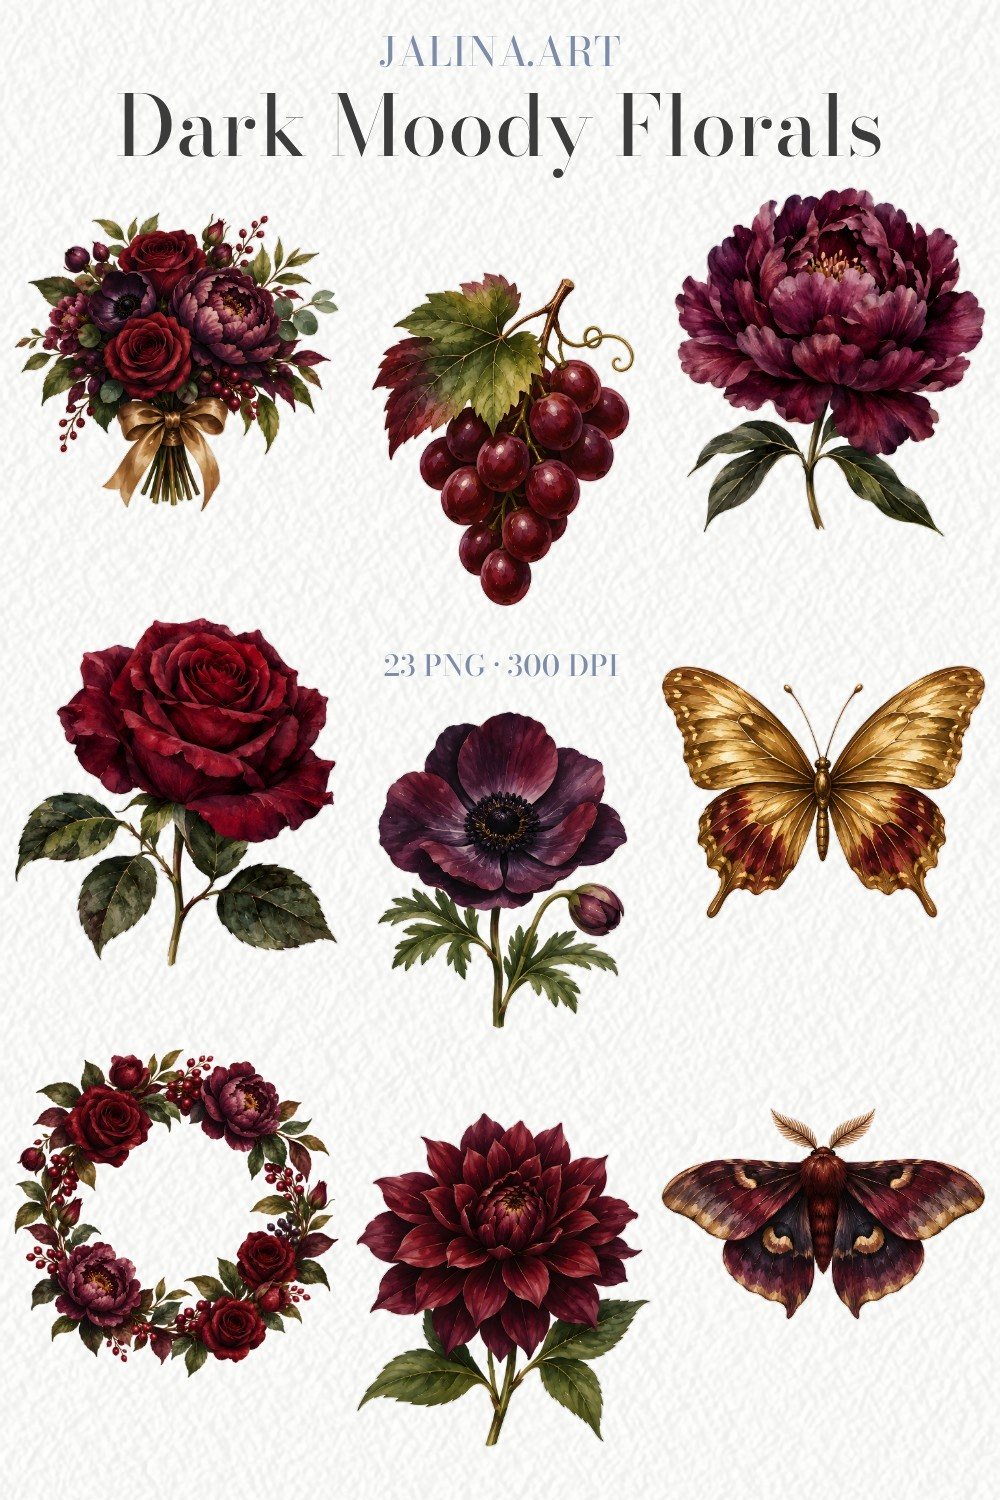
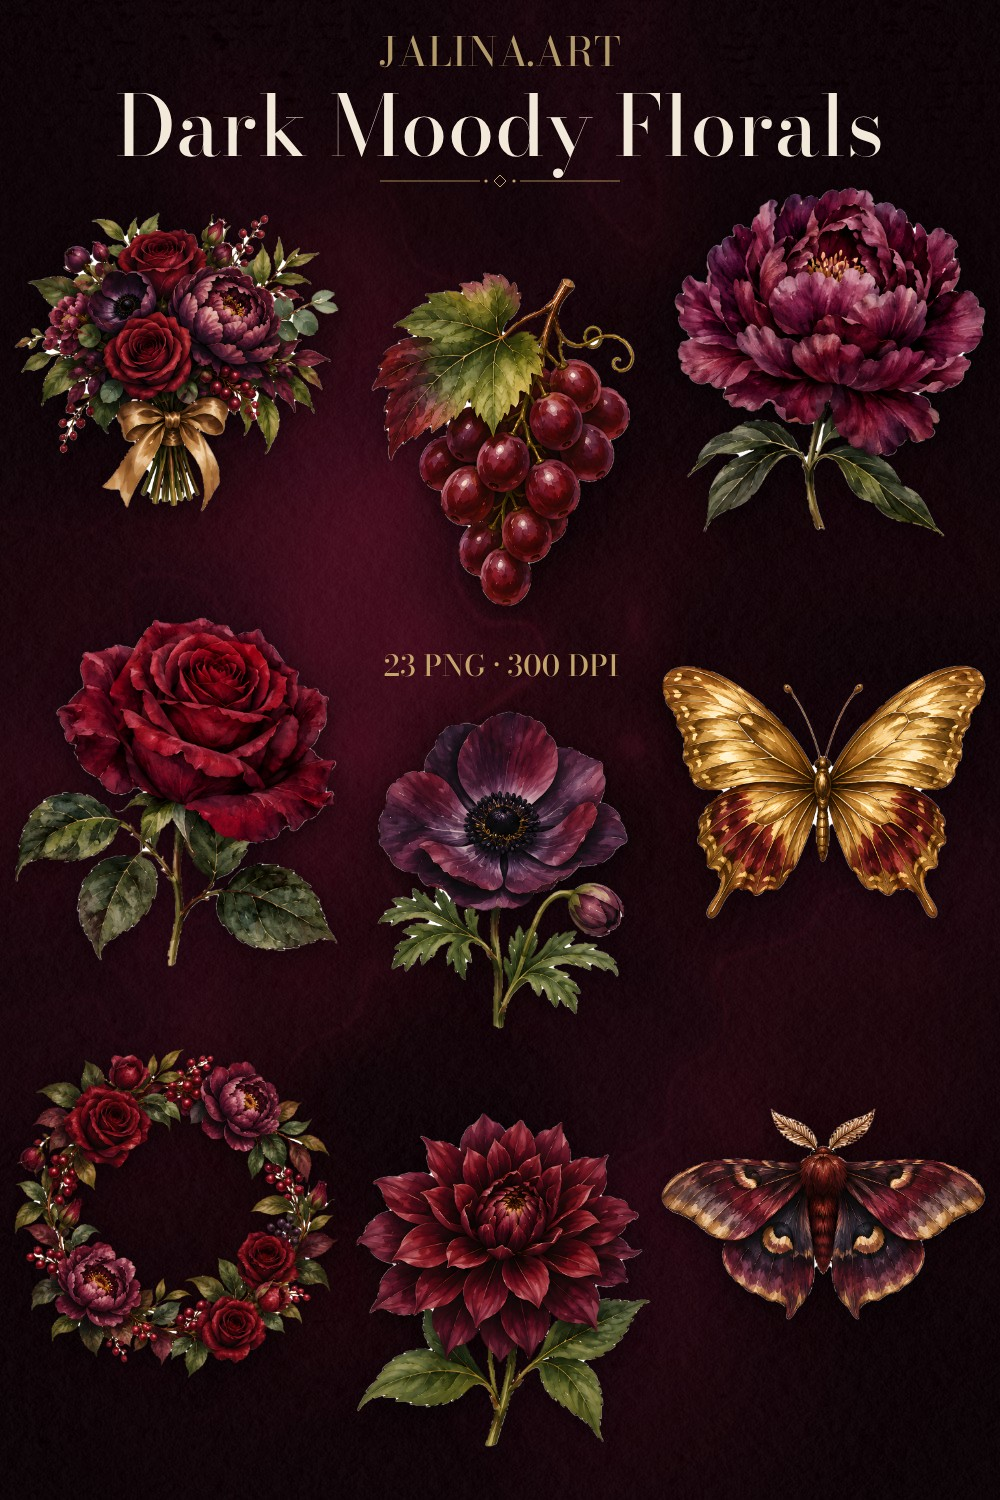
Pin template R: light/dark themes (auto by set palette), R is the default
Dark sets (median element luminance < 0.4) get the wine-to-black watercolor
wash, ivory title, muted gold caps, gold rule with diamond, defringed elements
with soft shadow. Light theme unchanged. Samples: moody florals (dark), pastel
christmas and elegant wedding (light).

Claude-Session: https://claude.ai/code/session_011DEezwDVCdCrHxyaviwVHj

diff --git a/affiliate/pins/v2/README.md b/affiliate/pins/v2/README.md
@@ -30,6 +30,10 @@ handmade paper with faint fibres. Elements use `multiply` so the paper
 shows through like print. Header: studio line `JALINA.ART` (Manrope spaced caps, muted), set name big in DM Serif
 Display, `<count> PNG · 300 DPI` (count from shop.json). No bottom brand: the studio line carries jalina.art.
 
+**R is THE default pin template for our own sets (Alina, 12.11.2026).** `--theme auto` (the default) picks by the set's own paint: if the median luminance of opaque element pixels is < 0.4 (moody burgundy florals 0.21; pastel, wedding and dino sets are 0.67–0.85), the theme is **dark**, otherwise **light**.
+- **Light:** cotton paper, slate caps lines, dark-grey title.
+- **Dark:** a wine-to-black watercolor wash (`assets/wine-wash.jpg`, made by `dark_wash.py` with grain from the CC0 paper scan), ivory title, muted gold caps, a thin gold rule with a small diamond under the title, defringed elements (no light halo; cached as `<set>/1000d/`) and a soft drop shadow.
+
 **R** replica (Nov 12 2026): a one-to-one copy of Alina's favourite reference pin "Coffee" (Crystal Sea Studio), with the content swapped for our set.
 - **Measured layout:** studio caps y≈40–67, title cap y≈97–156, a 3×3 grid of 9 items. The middle column sits ~75 px lower in every row, and the centre of row 2 has a small caps line (`<count> PNG · 300 DPI`) with an item under it. Items fill ~325×350 by their own shape; outer items sit 14–40 px from the edges.
 - **Fonts:** Bodoni Moda (OFL, `assets/fonts/`) in slate #7D8CAB for the studio line `JALINA.ART` and the middle line, #3C3C3C for the set name in Title Case.
@@ -48,7 +52,9 @@ python3 gen.py D 21-dino-birthday 2          # mockup-2 as hero -> v2-D-21-dino-
                                              # --title "Make your own dino party toppers" --strip 0|3|4 --kicker "..."
 python3 gen.py S 05-pastel-christmas --size 1000x2000   # -> v2-S-05-pastel-christmas-tall.html (--n 6..12, --title)
 python3 paper_real.py <Paper001 Color.jpg> <Paper006 Color.jpg>   # rebuild assets/paper-1..3.jpg (see assets/LICENSES.md)
-python3 gen.py R 14-moody-florals            # -> v2-R-14-moody-florals.html (--title to override)
+python3 gen.py R 14-moody-florals            # DEFAULT for own sets -> v2-R-14-moody-florals.html (auto -> dark)
+python3 gen.py R 05-pastel-christmas --theme light   # force a theme (light|dark|auto); --title to override the set name
+python3 dark_wash.py                         # regenerate assets/wine-wash.jpg
 node shot.js [prefix]                        # renders *.html -> out/*.jpg (size from <html data-w data-h>, default 1000x1500)
 ```
 - Headlines for A/B come from `jalina-blog/src/shop.json` (`name`, `count`); C counts the post's

diff --git a/affiliate/pins/v2/assets/LICENSES.md b/affiliate/pins/v2/assets/LICENSES.md
@@ -21,3 +21,6 @@ Alina's reference pin, lit from the left (Lambert), near-white #F8F8F6, even. Li
 - **Bodoni Moda** (variable, opsz + wght), `BodoniModa-VariableFont_opsz,wght.ttf`. Copyright 2020 The Bodoni Moda Project Authors.
   **SIL Open Font License 1.1**, full text in `fonts/OFL-BodoniModa.txt`, so commercial use and embedding in images are allowed.
   Source: https://github.com/google/fonts/tree/main/ofl/bodonimoda (downloaded 12.11.2026).
+
+## Dark theme (`wine-wash.jpg`)
+Generated by `dark_wash.py` (procedural wash). Its paper grain is taken from `paper-1.jpg`, which comes from the CC0 ambientCG Paper001 scan above. No other sources.
